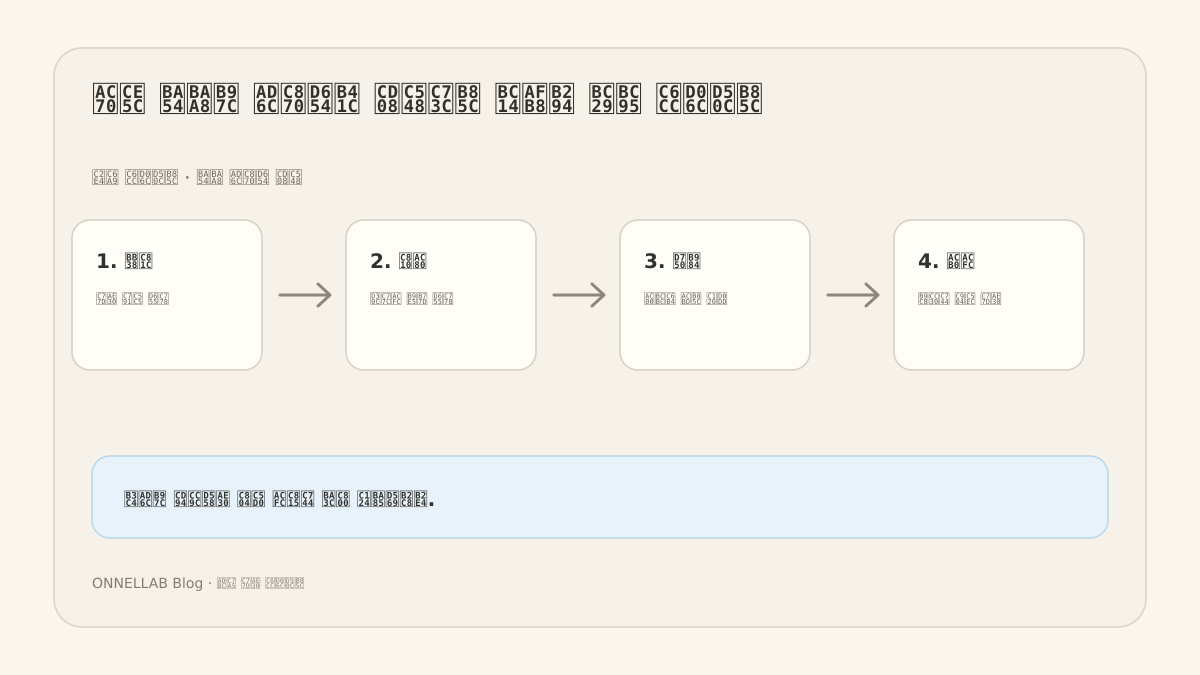
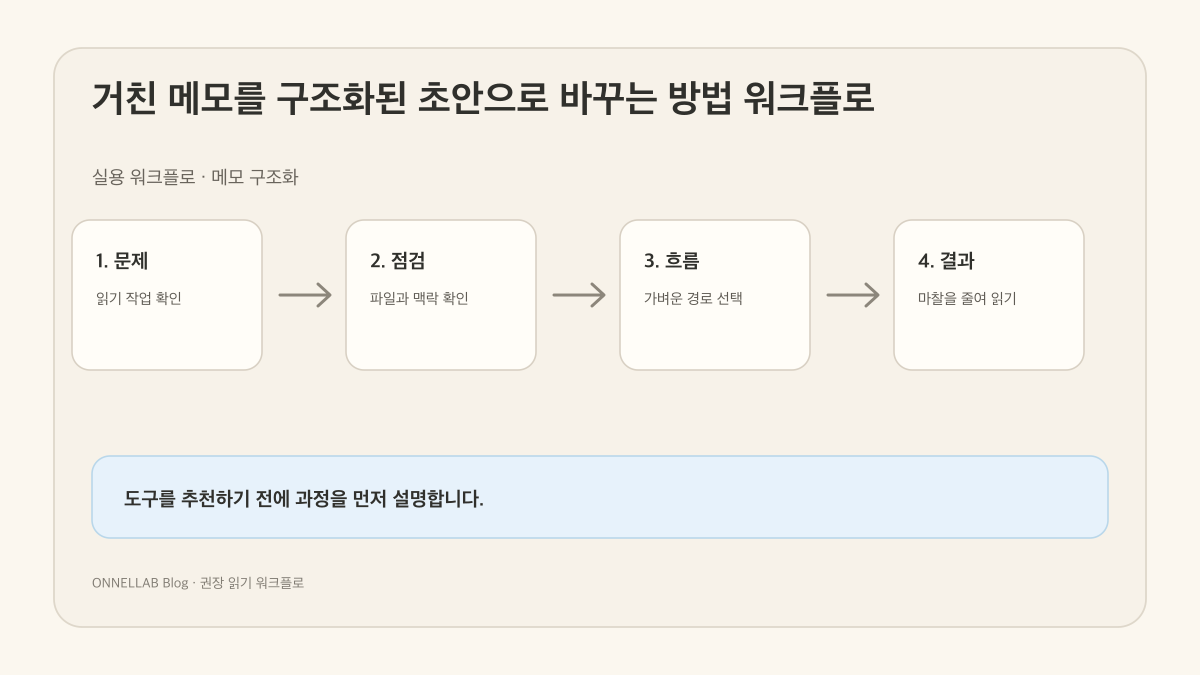
Clarify Korean notes-to-draft definitions and search phrasing

diff --git a/tests/test_content_quality_regressions.py b/tests/test_content_quality_regressions.py
@@ -15,6 +15,9 @@ class ContentQualityRegressionsTest(unittest.TestCase):
     def test_large_txt_language_pair_passes_every_readiness_check(self) -> None:
         self.assert_articles_publishable(("TOPIC-0001", "TOPIC-0005"))
 
+    def test_notes_to_draft_language_pair_passes_every_readiness_check(self) -> None:
+        self.assert_articles_publishable(("TOPIC-0014", "TOPIC-0024"))
+
     def assert_articles_publishable(self, topic_ids: tuple[str, ...]) -> None:
         topics_path = ROOT / "data" / "topics.csv"
         for topic_id in topic_ids:
